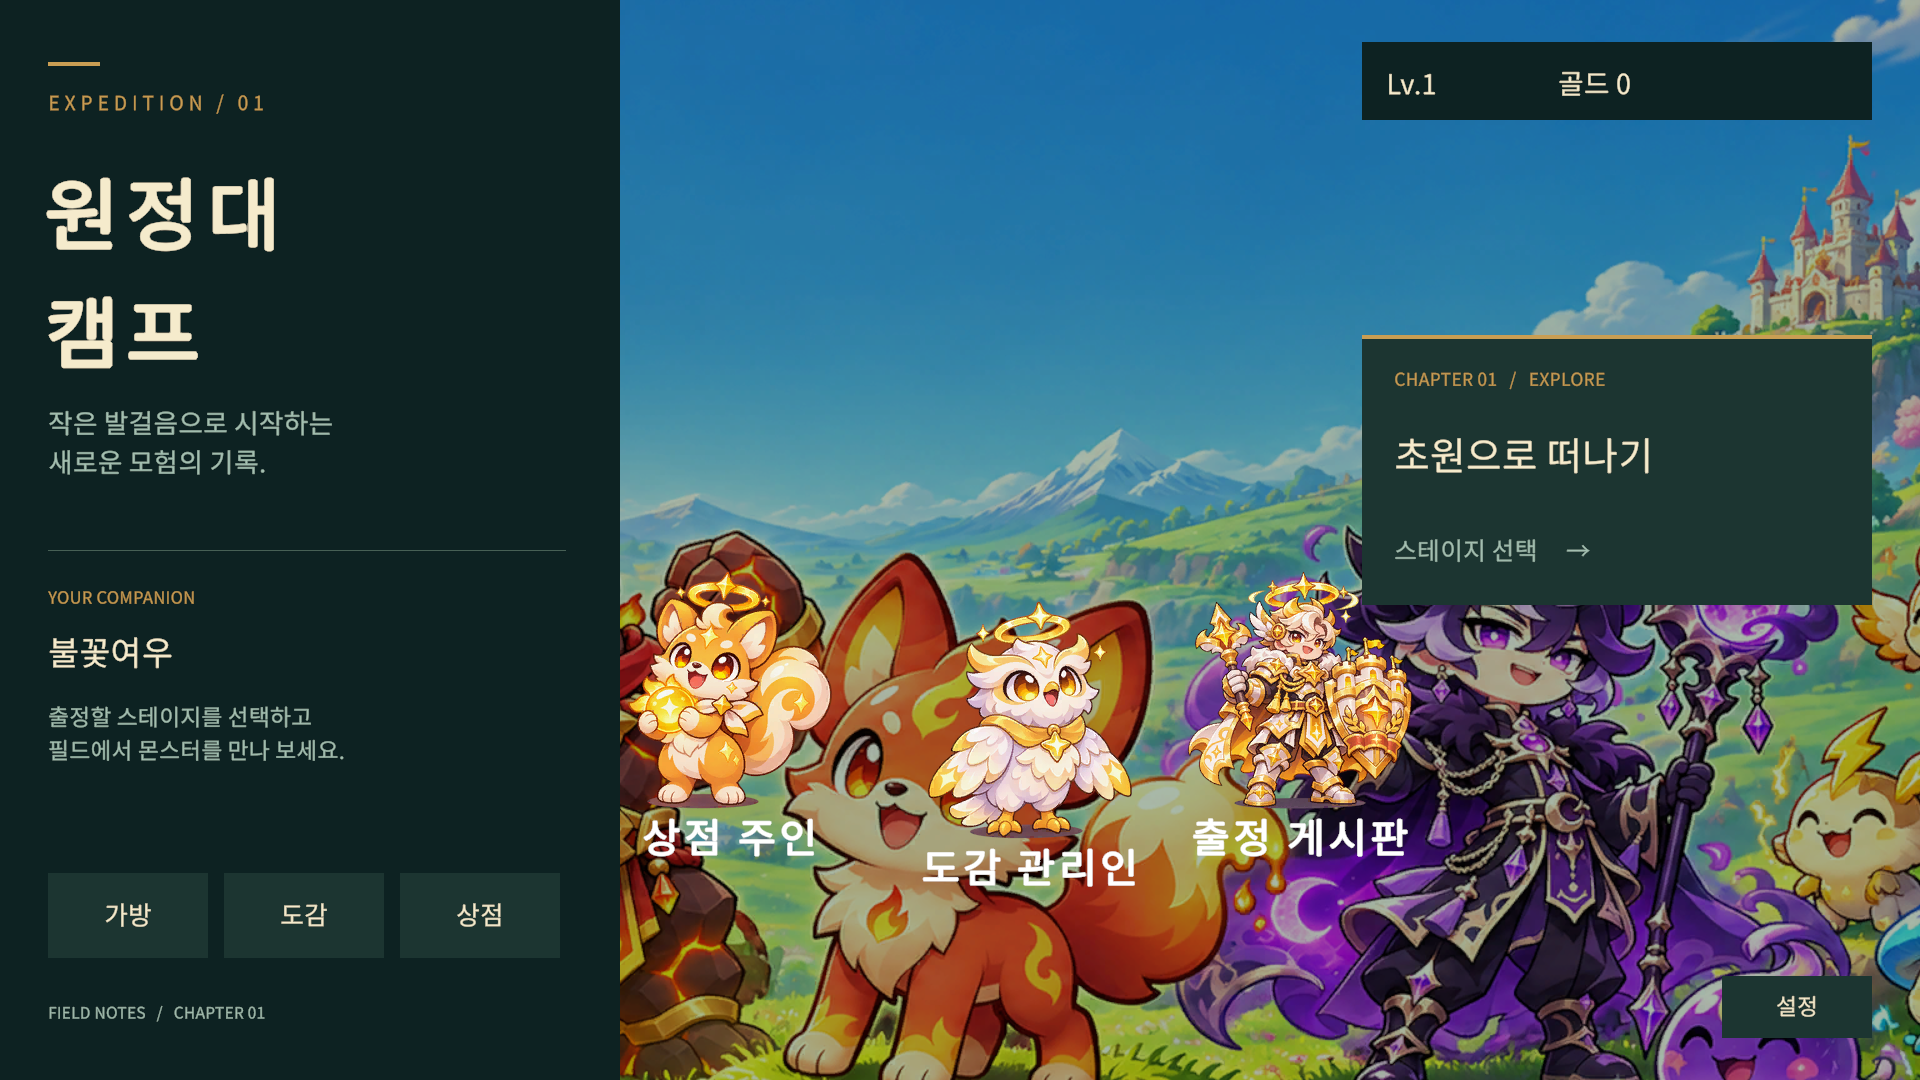
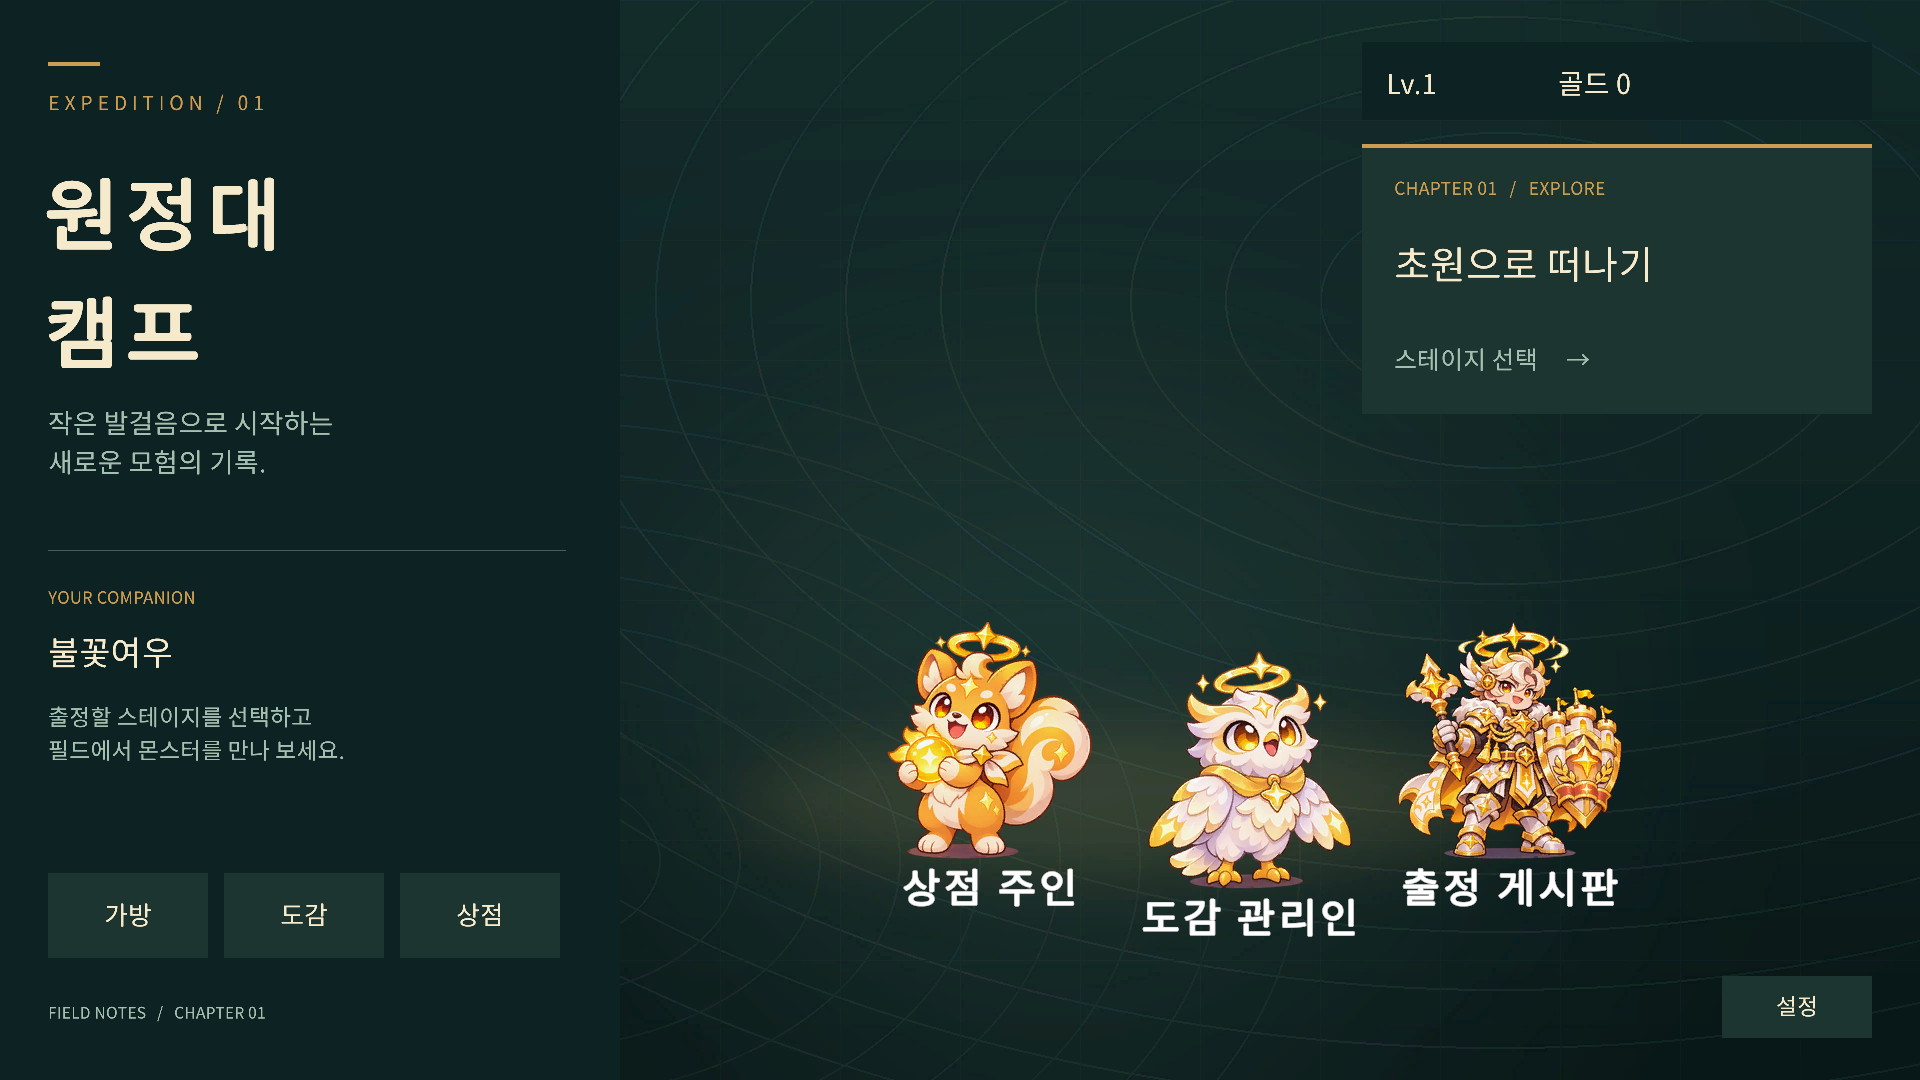
docs: recapture lobby break screenshots and record the lobby layout change

diff --git a/docs/검증기록_3단계자동화.md b/docs/검증기록_3단계자동화.md
@@ -271,3 +271,19 @@ Chad 결정으로 2단계에서 쓰는 순서대로 번호를 다시 매기고, 
 - 지운 3개 때문에 예시 브랜치가 없어진 자동 검사는 meta 짝 · GUID 참조(이전 01 · 02)와 SpawnPoint 이름(이전 13)입니다.
 검사 자체는 그대로 있고 main 에서 통과합니다.
 
+## 13. 로비 배치 변경 (2026-11-19)
+
+| 대상 | 이전 | 이후 |
+|---|---|---|
+| NPC_Shop · NPC_Dex · NPC_Board 위치 | x -2.3 · 0.7 · 3.4, y -1.5 (도감 -1.8) | x 0.3 · 2.9 · 5.5, y -2.0 (도감 -2.3) |
+| Btn_Departure (출정 카드) | 오른쪽 가운데 기준, 위로 70 | 오른쪽 위 기준 (-48, -144), Lv · 골드 막대 바로 아래 |
+
+- 이유: 상점 주인이 왼쪽 사이드바(620px)에 가려졌고, 출정 카드가 Lv · 골드 막대와 떨어져 있었습니다 (Chad 요청).
+- 1920x1080 · 2340x1080 · 2048x1536 에서 NPC 3명과 이름이 모두 화면 안에 있는 것을 캡처로 확인했습니다.
+처음 안(x 0.6 · 3.4 · 6.2)은 2048x1536 에서 출정 게시판이 오른쪽으로 잘려서 간격을 좁혔습니다.
+- main 확인: 데이터 · 프로젝트 파일 67 통과, EditMode 52 · PlayMode 9 통과, 빌드 2종 · 산출물 · 스모크 14 통과
+- Lobby 를 바꾸는 break 01 · 03 · 14 는 다시 만들었고, 바뀐 행이 이전과 같습니다. 나머지 13개는 새 main 위로 옮겼습니다.
+break 01 · 03 · 14 의 프로젝트 파일 검사 실패 1개씩과 03 의 UI 겹침 4개 실패도 이전과 같습니다.
+- 정답표의 01 · 03 로비 캡처 3장을 다시 찍었고, main 비교 캡처 4장(쓰는 곳이 없음)은 지웠습니다.
+- 바꾸지 않고 남은 것: 2340x1080 에서는 로비 배경 그림이 오른쪽 끝까지 덮지 않아 어두운 띠가 보이고, 2048x1536 에서는 왼쪽 사이드바가 아래 끝까지 내려오지 않습니다. 이번 변경 전부터 있던 모습입니다.
+
